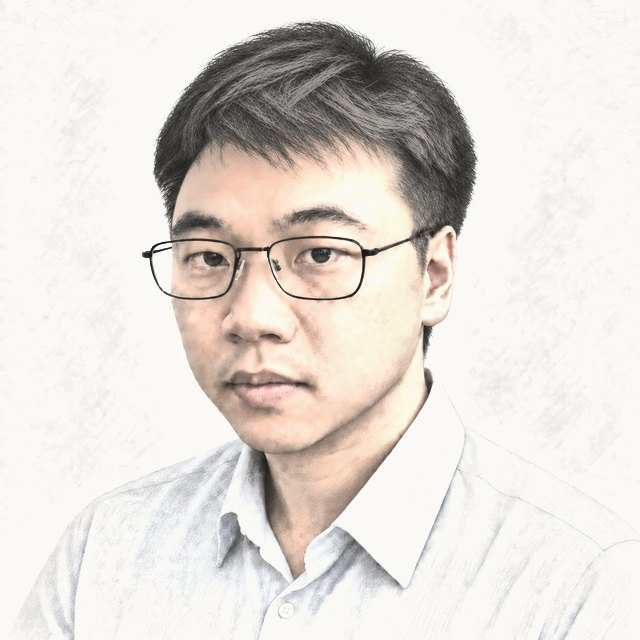
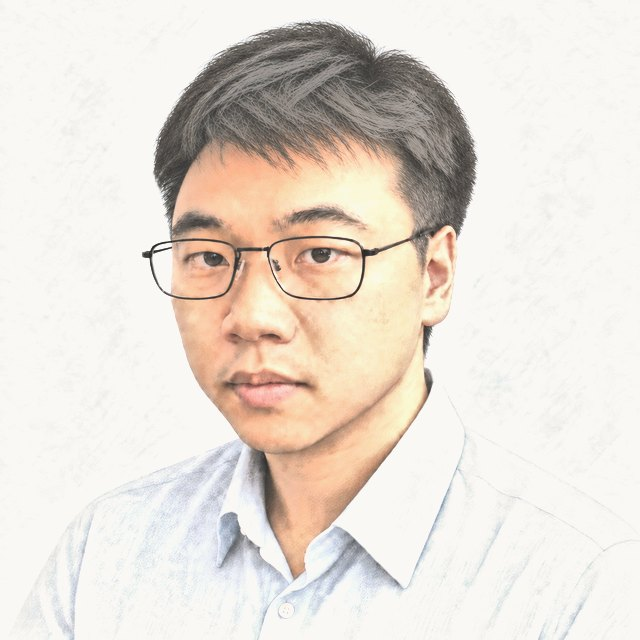
site: content update 2026-09-17 00:33

Changed region(s): [[0.25, 0.0312, 0.75, 0.9062], [0.6562, 0.5938, 0.6875, 0.625], [0.5312, 0.875, 0.5625, 0.9062]]

diff --git a/index.html b/index.html
@@ -76,9 +76,14 @@ code{font-family:var(--mono);font-size:.9em}
   </header>
 
   <section>
+  <div class="bioflex" style="--pnudge:14px;--psize:96px">
+    <div class="biotext">
     <p class="greet">Welcome!</p>
     <p>I study export controls and economic sanctions. In particular, I evaluate how they affect firms in technology competition.</p>
     <p>Where administrative law meets political economy, I enjoy turning regulatory decisions into sensible variables for causal inference.</p>
+    </div>
+    <img class="portrait" src="portrait.jpg" alt="Jichun Zhang 张计淳" loading="lazy" decoding="async">
+  </div>
   </section>
 
   <footer>
